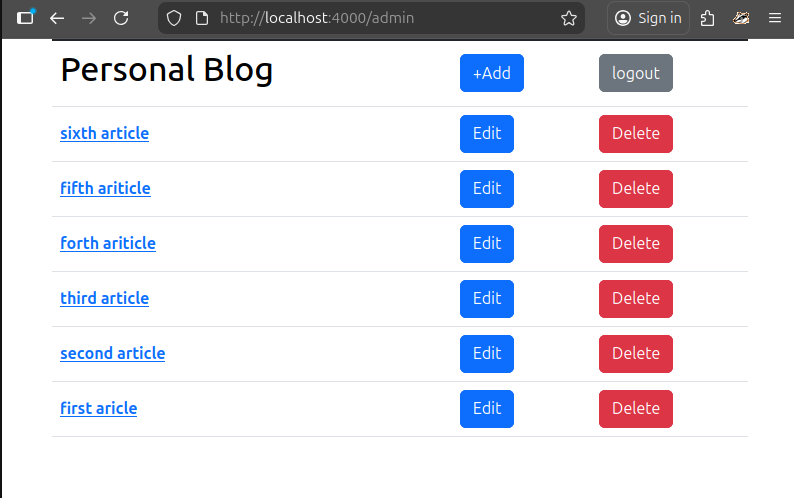
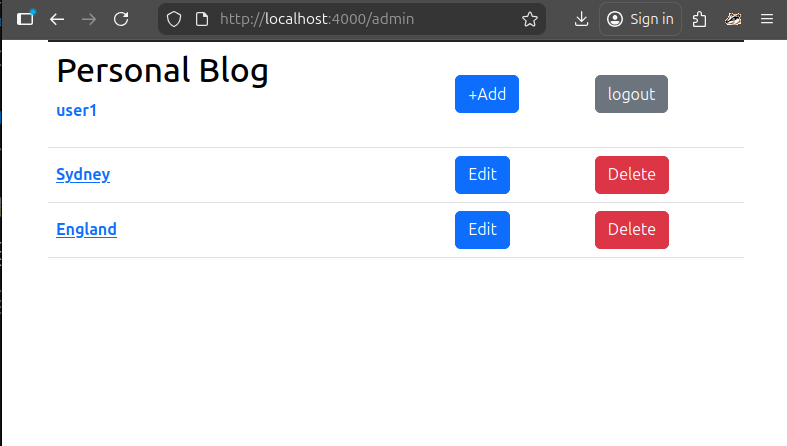
1. add username in `/admin` page 2. add author in `/article` page 3. update README.md

diff --git a/index.js b/index.js
@@ -88,7 +88,10 @@ async function fetchArticleById(article_id){
 
   try{
     if(article_id){
-      result = await blogDatabase.query("SELECT * FROM articles WHERE id=$1", [article_id]);
+      result = await blogDatabase.query(
+        "SELECT articles.id, title, content, date, owner_id, users.username FROM articles " +
+        "INNER JOIN users ON users.id=articles.owner_id WHERE articles.id=$1",
+        [article_id]);
     }else{
       result = await blogDatabase.query("SELECT * FROM articles");
     }
@@ -232,13 +235,14 @@ app.get("/new", (req, res) =>{
 // This page can only been accessed after login
 app.get("/admin", async (req,res)=>{
 
+  const user = req.session.user;
   //go to login page when user is guest
-  if(!req.session.user){
+  if(!user){
     return res.redirect("/login");
   }
   
-  const articlesArray = await fetchArticlesByOwner(req.session.user.id);
-  res.render("admin.ejs", {articles:articlesArray});
+  const articlesArray = await fetchArticlesByOwner(user.id);
+  res.render("admin.ejs", {articles:articlesArray, username:user.username});
 });
 
 
@@ -264,6 +268,7 @@ app.post("/login", async (req, res)=>{
     if(result.rows.length > 0){
       const loginUser = result.rows[0];
 
+      //use bcrypt.compare() method compare the password typed in by user and that encrypted one stored in database
       bcrypt.compare(password, loginUser.password, (err, valid) => {
         if (err) {
           console.error("Error comparing passwords:", err);
@@ -395,7 +400,7 @@ app.get('/article/:articleID', async (req, res) =>{
       const articleElement = await fetchArticleById(id);
 
       if(articleElement){
-          return res.render("article.ejs", {article:articleElement});
+          return res.render("article.ejs", {article:articleElement, author:articleElement.username});
       }else{
         console.log("article with id ${id} does not exit.");
         return res.send('404');

diff --git a/README.md b/README.md
@@ -1,34 +1,43 @@
 # personal_blog
 This repository is an improvement of roadmap.sh backend project (https://roadmap.sh/projects/personal-blog).
-It adds database PostgreSQL to store the articles, username and the associated password(encrypted).
+It adds database PostgreSQL to store the articles, username and the associated password.
 
 This frontend and backend is implemented by html(plus ejs for templating) and node.js respectively.
 framework bootstrap is used.
+
+For run the project. Please install `node.js` and `PostgreSQL`.
+
 
 please follow the instructions to run:
 1. download and unzip the code
 2. open terminal and go the project folder
 3. type `npm install` in terminal to install the neccessary node package
-4. follow the command inside queries.sql to set up the database and tables
-5. type `node index.js` to run the backend. [do not run with `nodemon`. `nodemon` will re-start after writing or deleting file (create a new article, save modifed an article and delete an article). It needs to log in again when `nodemon` will re-start.]
+4. follow the command inside queries.sql to set up the tables in databease.
+5. type `node index.js` or `nodemon index.js` to run the backend. 
 6. Port `${PORT}` is opened. Use web browser to open `http://localhost:${PORT}/home` to view the articles as a guest.
 7. To create, edit or delete articles, go to `http://localhost:${PORT}/login` to login as admin (username and password is stored in index.js for simplicity).
 
 
+This project use `express-session` to store user login status. Any access to `/admin`, `/edit/x` and `/new` page as guest will be redirected to `/login` page.
+User password has beed encryped with module `bcypt`. 
 
-home page (guest)
+
+
+home page (guest) - It lists all articles published by all users. The newest article (published date) will be listed at the top of the list.
 ![display home page](./screenshot/home_page.png)
 
 article content
 ![display article content](./screenshot/article_page.png)
 
-admin page
+admin page - It only list the articles that publiched by the login user.
 ![display the admin page](./screenshot/admin_page.png)
 
 edit article
 ![display the editing page](./screenshot/edit_page.png)
 
 
-This project use `express-session` to store user login status. Any access to `/admin`, `/edit/x` and `/new` page as guest will be redirected to `/login` page.
+Users registered in `users` table of the database. User password is encrypted before storing into the tables.
+![User data in 'user' table of database](./screenshot/user_table.png)
 
-The newest article (published date) will be listed at the top in `/home` and `/admin` page. The order of article will be sorted before display when a new article has been published or an existing article has been editted each time.
+Articles stored in `articles` table of the database
+![articles publiched by different users](./screenshot/articles_table.png)
